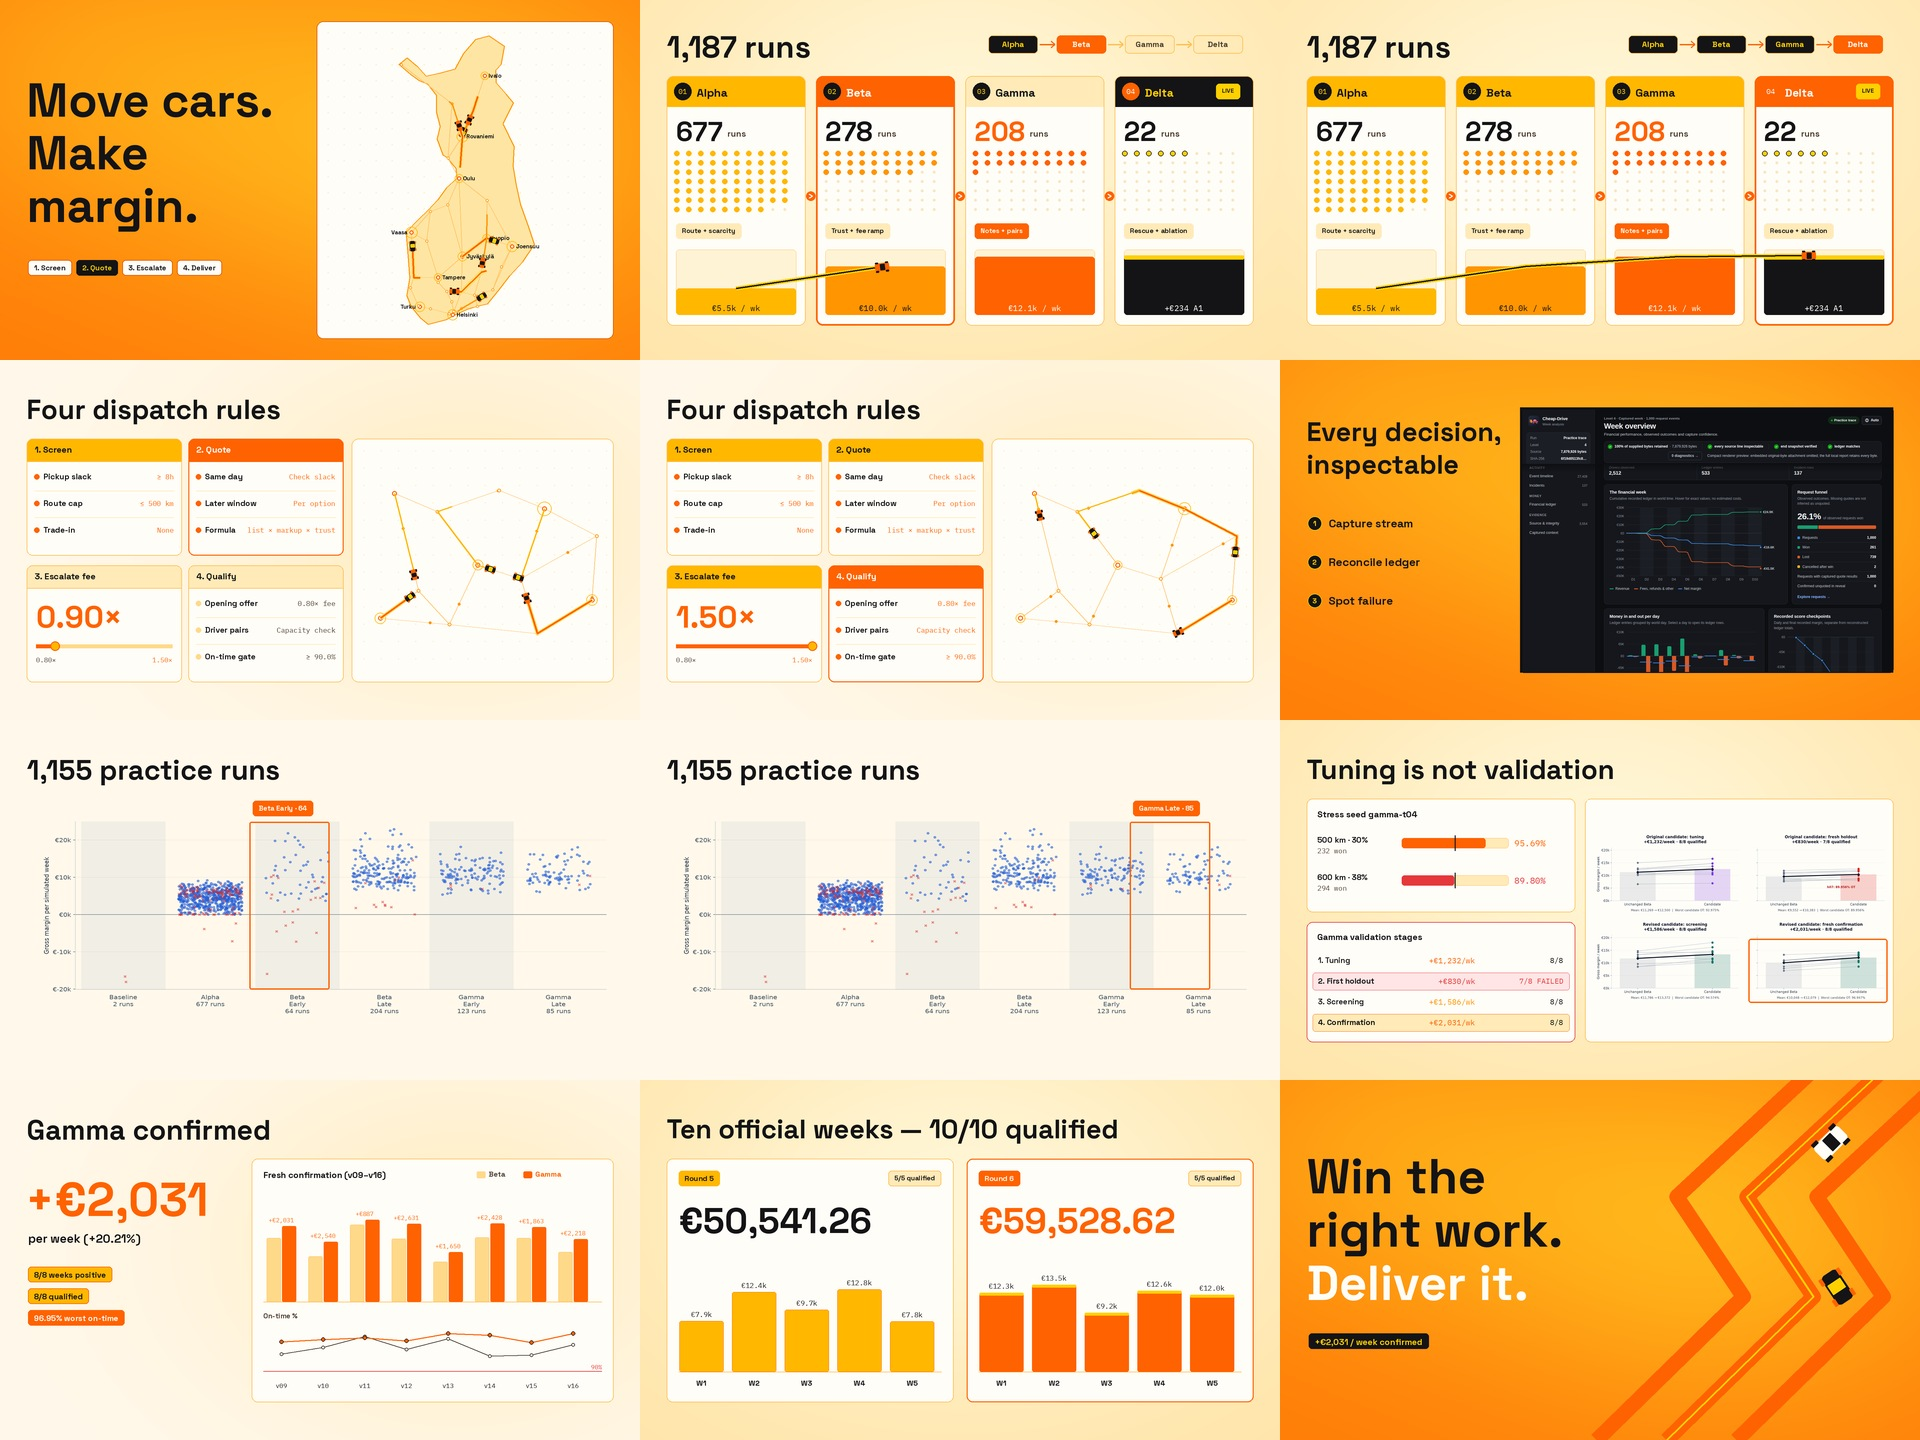
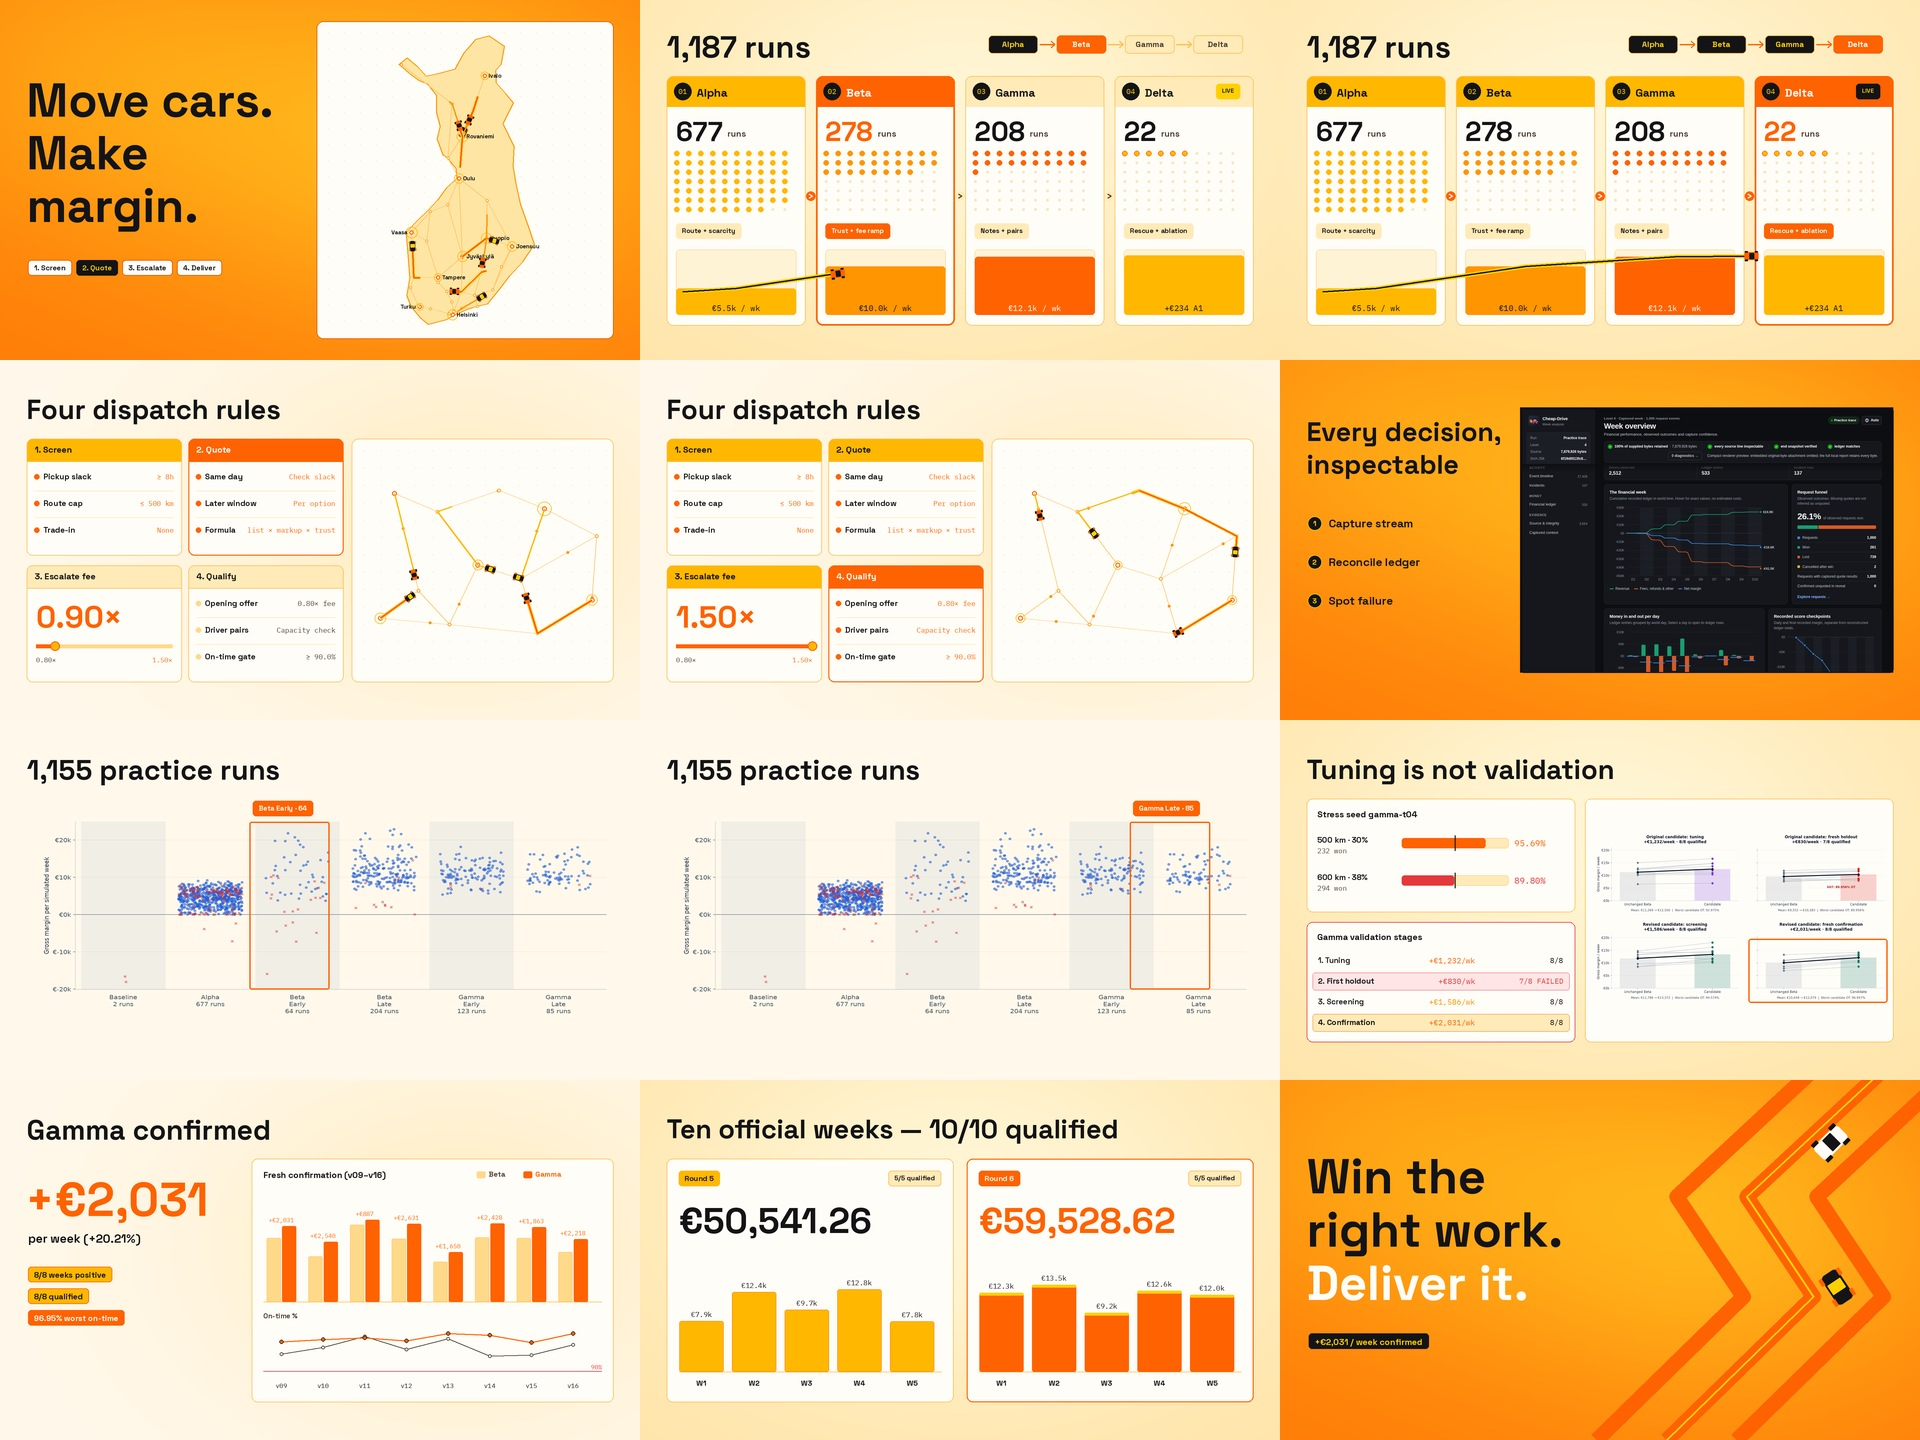
fix(demo-video): fix 12s Delta card animation glitch and car endpoint heading snap

diff --git a/docs/demo-video/render.py b/docs/demo-video/render.py
@@ -169,10 +169,10 @@ def path_partial(im, points, p, color=ORANGE, width=5, glow=None):
         line(im, pts, color, width)
 
 
-def car(im, x, y, color=INK, scale=1, angle=0):
-    if angle:
+def car(im, x, y, color=INK, scale=1, angle=None):
+    if angle is not None:
         sprite = Image.new('RGBA', (int(64 * scale), int(64 * scale)))
-        car(sprite, 32 * scale, 32 * scale, color, scale)
+        car(sprite, 32 * scale, 32 * scale, color, scale, None)
         sprite = sprite.rotate(-angle, resample=Image.Resampling.BICUBIC, expand=True)
         im.paste(sprite, (round(x - sprite.width / 2), round(y - sprite.height / 2)), sprite)
         return
@@ -432,8 +432,8 @@ def evolution(t):
     total_runs = round(1187 * ease(t / 0.9))
     enter(im, f'{total_runs:,} runs', 80, 82, 92, t, 0.05, color=INK, weight=700)
 
-    p_car = clamp((t - 0.6) / 5.8)
-    focus_idx = min(3, round(p_car * 3))
+    p_car = clamp((t - 0.4) / 7.5)
+    focus_idx = min(3, int(p_car * 3.999))
 
     # Top-right graphical Alpha -> Beta -> Gamma -> Delta chain
     chain_names = ['Alpha', 'Beta', 'Gamma', 'Delta']
@@ -456,7 +456,7 @@ def evolution(t):
         ('01', 'Alpha', 677, 68, 5476, 'Route + scarcity', MARIGOLD),
         ('02', 'Beta', 278, 28, 10048, 'Trust + fee ramp', MANGO),
         ('03', 'Gamma', 208, 21, 12079, 'Notes + pairs', ORANGE),
-        ('04', 'Delta', 22, 6, 12313, 'Rescue + ablation', INK),
+        ('04', 'Delta', 22, 6, 12313, 'Rescue + ablation', MARIGOLD),
     ]
 
     curve_pts = []
@@ -464,28 +464,28 @@ def evolution(t):
         cx = 80 + i * 448
         cw = 416
         cy, cy2 = 228, 976
-        appear = ease((t - 0.15 - i * 0.25) / 0.55)
+        appear = ease((t - 0.15 - i * 0.20) / 0.50)
         is_focus = i == focus_idx
         is_gamma = i == 2
         is_delta = i == 3
 
         rect(im, (cx, cy, cx + cw, cy2), CARD, None, r=20)
-        hdr_bg = ORANGE if is_focus else (INK if is_delta else (MARIGOLD if i < focus_idx else APRICOT))
-        hdr_fg = CARD if is_focus else (SUNBURST if is_delta else INK)
+        hdr_bg = ORANGE if is_focus else (MARIGOLD if i < focus_idx else APRICOT)
+        hdr_fg = CARD if is_focus else INK
         rect(im, (cx, cy, cx + cw, cy + 92), hdr_bg, None, r=20)
         rect(im, (cx, cy + 70, cx + cw, cy + 92), hdr_bg, None, r=0)
         rect(im, (cx, cy, cx + cw, cy2), None, ORANGE if is_focus else GOLD_LINE, r=20, width=5 if is_focus else 2)
 
-        # Stage number & Name
-        circle(im, cx + 48, cy + 46, 26, INK if not is_delta else ORANGE)
-        txt(im, num_tag, cx + 48, cy + 46, 22, SUNBURST if not is_delta else CARD, mono=True, weight=700, anchor='mm')
+        # Stage number & Name (always high contrast against hdr_bg)
+        circle(im, cx + 48, cy + 46, 26, INK)
+        txt(im, num_tag, cx + 48, cy + 46, 22, SUNBURST, mono=True, weight=700, anchor='mm')
         txt(im, name, cx + 90, cy + 28, 34, hdr_fg, 700)
         if is_delta:
-            badge(im, 'LIVE', cx + cw - 112, cy + 23, color=INK, bg=SUNBURST, size=18)
+            badge(im, 'LIVE', cx + cw - 112, cy + 23, color=SUNBURST if is_focus else INK, bg=INK if is_focus else SUNBURST, size=18)
 
         # Big run count & visual dot-matrix meter (each dot = ~10 runs)
         cnt_now = round(r_cnt * appear)
-        txt(im, f'{cnt_now}', cx + 28, cy + 114, 82, ORANGE if is_gamma else INK, 700)
+        txt(im, f'{cnt_now}', cx + 28, cy + 114, 82, ORANGE if is_focus else INK, 700)
         txt(im, 'runs', cx + 28 + font(82, 700).getbbox(f'{cnt_now}')[2] + 14, cy + 156, 26, MUTED_INK, 650)
 
         # Graphical dot grid representing run volume
@@ -499,13 +499,13 @@ def evolution(t):
                 dx,
                 dy,
                 8 if active_dot else 4,
-                (ORANGE if is_gamma else (SUNBURST if is_delta else col)) if active_dot else '#F7E6C4',
-                outline=INK if (active_dot and is_delta) else None,
+                (ORANGE if is_gamma else col) if active_dot else '#F7E6C4',
+                outline=ORANGE if (active_dot and is_delta) else None,
                 width=2 if (active_dot and is_delta) else 0,
             )
 
         # Strategy tag pill
-        badge(im, tag, cx + 28, cy + 442, color=CARD if is_gamma else INK, bg=ORANGE if is_gamma else APRICOT, size=20)
+        badge(im, tag, cx + 28, cy + 442, color=CARD if is_focus else INK, bg=ORANGE if is_focus else APRICOT, size=20)
 
         # Rising weekly margin bar at bottom of card
         bar_base = cy2 - 32
@@ -513,27 +513,32 @@ def evolution(t):
         bh = max_h * (mgn / 13500.0) * appear
         by = bar_base - bh
         rect(im, (cx + 28, bar_base - max_h, cx + cw - 28, bar_base), '#FFF3D6', outline=GOLD_LINE, r=10)
-        rect(im, (cx + 28, by, cx + cw - 28, bar_base), ORANGE if is_gamma else (INK if is_delta else col), r=10)
-        if is_delta and appear > 0.2:
-            rect(im, (cx + 28, by, cx + cw - 28, min(bar_base, by + 12)), SUNBURST, r=4)
+        rect(im, (cx + 28, by, cx + cw - 28, bar_base), ORANGE if is_gamma else col, r=10)
         lbl_mgn = f'€{mgn / 1000:.1f}k / wk' if not is_delta else '+€234 A1'
         if appear > 0.35:
-            txt(im, lbl_mgn, cx + cw / 2, bar_base - 36, 24, CARD if (is_gamma or is_delta) else INK, mono=True, weight=700, anchor='ma')
+            txt(im, lbl_mgn, cx + cw / 2, bar_base - 36, 24, CARD if is_gamma else INK, mono=True, weight=700, anchor='ma')
+        if i == 0:
+            curve_pts.append((cx + 48, by + 10))
         curve_pts.append((cx + cw / 2, by))
+        if i == 3:
+            curve_pts.append((cx + cw - 48, by - 4))
 
         # Arrow connector between cards
         if i < 3:
             ax = cx + cw + 16
             ay = cy + 360
-            circle(im, ax, ay, 14, ORANGE if appear > 0.8 else APRICOT)
-            line(im, [(ax - 5, ay - 6), (ax + 5, ay), (ax - 5, ay + 6)], CARD if appear > 0.8 else MUTED_INK, 3)
+            circle(im, ax, ay, 14, ORANGE if i < focus_idx else APRICOT)
+            line(im, [(ax - 5, ay - 6), (ax + 5, ay), (ax - 5, ay + 6)], CARD if i < focus_idx else MUTED_INK, 3)
 
     # Trajectory curve & climbing car across the 4 prototypes
-    if len(curve_pts) > 1 and t > 0.6:
+    if len(curve_pts) > 1 and t > 0.4:
         path_partial(im, curve_pts, p_car, INK, 5, glow=SUNBURST)
         q = route_point(curve_pts, p_car)
-        ahead = route_point(curve_pts, min(p_car + 0.01, 1.0))
-        heading = math.degrees(math.atan2(ahead[1] - q[1], ahead[0] - q[0]))
+        p_prev = max(0.0, p_car - 0.01)
+        p_next = min(1.0, p_car + 0.01)
+        q0 = route_point(curve_pts, p_prev)
+        q1 = route_point(curve_pts, p_next)
+        heading = math.degrees(math.atan2(q1[1] - q0[1], q1[0] - q0[0]))
         car(im, *q, color=ORANGE, scale=1.15, angle=heading)
 
     return im
